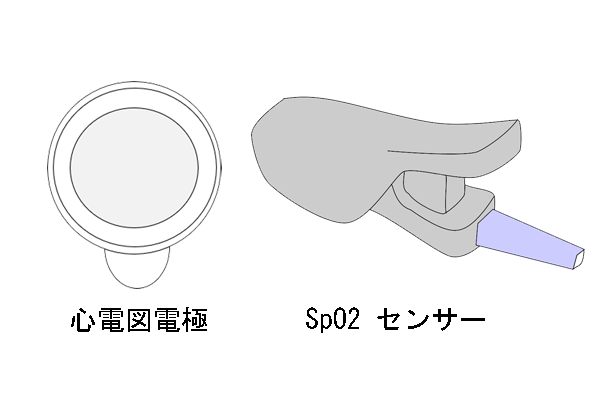
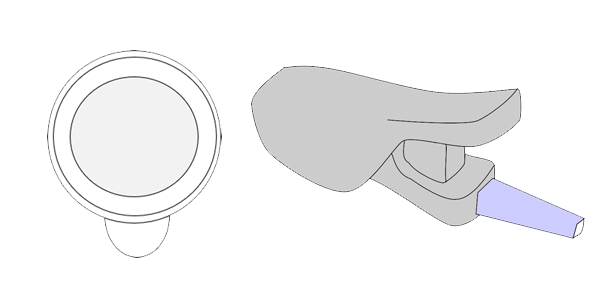
deleted:    content/post/Noiseless/featured.png 	modified:   content/project/sensor/featured.png 	modified:   content/project/sensor/index.md 	modified:   docs/index.html 	modified:   docs/index.json 	modified:   docs/index.xml 	modified:   docs/post/index.html 	modified:   docs/post/noiseless/index

diff --git a/docs/post/noiseless/index.html b/docs/post/noiseless/index.html
@@ -99,13 +99,14 @@
   
   
     
+    
   
-  <meta property="twitter:card" content="summary_large_image">
+  <meta property="twitter:card" content="summary">
   
   <meta property="og:site_name" content="HST">
   <meta property="og:url" content="https://kusa0.github.io/HST1/post/noiseless/">
   <meta property="og:title" content="技術トピック１　ノイズレス電極 | HST">
-  <meta property="og:description" content="ノイズレス電極 汎用電極 ノイズレス電極 汎用電極による歩行時の心電図は、静電気の影響で大きく揺れています。特に乾燥した冬季では顕著に現れ、モニタ"><meta property="og:image" content="https://kusa0.github.io/HST1/post/noiseless/featured.png">
+  <meta property="og:description" content="ノイズレス電極 汎用電極 ノイズレス電極 汎用電極による歩行時の心電図は、静電気の影響で大きく揺れています。特に乾燥した冬季では顕著に現れ、モニタ"><meta property="og:image" content="https://kusa0.github.io/HST1/img/icon-192.png">
   <meta property="og:locale" content="en-us">
   
   <meta property="article:published_time" content="2019-03-06T16:15:53&#43;09:00">
@@ -303,97 +304,18 @@
 
 
 
-
-<div class="article-header d-xl-none">
-  <div class="featured-image" style="background-image: url('/HST1/post/noiseless/featured_hu264da5d4241c59ecc0a46030689103db_290100_800x0_resize_box_2.png');"></div>
-  
-</div>
-
-
-<div class="container-fluid split-header d-none d-xl-block">
-  <div class="row">
-    <div class="col-6">
-      <div class="split-header-content">
-        <h1 itemprop="name">技術トピック１　ノイズレス電極</h1>
-
-        
-
-        
-
-<div class="article-metadata">
-
-  
-  
-  
-  <div>
-    <span itemscope itemprop="author" itemtype="http://schema.org/Person">
-      <span itemprop="name">HST Inc.</span>
-    </span>
-    
-  </div>
-  
-
-  <span class="article-date">
-    
-    <meta content="2019-03-06 16:15:53 &#43;0900 JST" itemprop="datePublished">
-    <time datetime="2019-03-06 16:15:53 &#43;0900 JST" itemprop="dateModified">
-      Mar 6, 2019
-    </time>
-  </span>
-  <span itemscope itemprop="publisher" itemtype="http://schema.org/Person">
-    <meta itemprop="name" content="HST">
-  </span>
-
   
 
   
   
-
   
-
-  
-
-</div>
-
-
-        
-
-
-
-
-
-
-
-  
-
-
-
-
-
-
-
-
-
-
-        
-
-      </div>
-    </div>
-    <div class="col-6">
-      <div class="split-header-image">
-        <img src="/HST1/post/noiseless/featured_hu264da5d4241c59ecc0a46030689103db_290100_680x500_fill_q90_box_smart1_2.png" itemprop="image" alt="">
-        
-      </div>
-    </div>
-  </div>
-</div>
-
-<div class="article-container d-xl-none">
+<div class="article-container pt-3">
   <h1 itemprop="name">技術トピック１　ノイズレス電極</h1>
 
   
 
   
+    
 
 <div class="article-metadata">
 
@@ -433,6 +355,13 @@
 
 </div>
 
+    
+
+
+
+
+
+
 
   
 
@@ -442,16 +371,9 @@
 
 
 
+
+
   
-
-
-
-
-
-
-
-
-
 </div>
 
 

diff --git a/docs/project/sensor/index.html b/docs/project/sensor/index.html
@@ -15,7 +15,7 @@
   
     
   
-  <meta name="description" content="心電図電極 SpO2センサー">
+  <meta name="description" content="HSTは各種センサーの作成も承ります。 - 心電図電極 - リユーザブル - ノイズレス電極 - SpO2センサー - リユーザブル - ディスポーザブル">
 
   
   <link rel="alternate" hreflang="en-us" href="https://kusa0.github.io/HST1/project/sensor/">
@@ -105,7 +105,7 @@
   <meta property="og:site_name" content="HST">
   <meta property="og:url" content="https://kusa0.github.io/HST1/project/sensor/">
   <meta property="og:title" content="各種センサー | HST">
-  <meta property="og:description" content="心電図電極 SpO2センサー"><meta property="og:image" content="https://kusa0.github.io/HST1/project/sensor/featured.png">
+  <meta property="og:description" content="HSTは各種センサーの作成も承ります。 - 心電図電極 - リユーザブル - ノイズレス電極 - SpO2センサー - リユーザブル - ディスポーザブル"><meta property="og:image" content="https://kusa0.github.io/HST1/project/sensor/featured.png">
   <meta property="og:locale" content="en-us">
   
   <meta property="article:published_time" content="2018-03-07T16:24:58&#43;09:00">
@@ -305,7 +305,7 @@
 
 
 <div class="article-header d-xl-none">
-  <div class="featured-image" style="background-image: url('/HST1/project/sensor/featured_hu9ac443945f81928e92f42e9bbe3df4d7_35889_800x0_resize_box_2.png');"></div>
+  <div class="featured-image" style="background-image: url('/HST1/project/sensor/featured_hu48985c463ad2c2b2942d32010d0f6cca_40057_800x0_resize_box_2.png');"></div>
   
 </div>
 
@@ -381,7 +381,7 @@
     </div>
     <div class="col-6">
       <div class="split-header-image">
-        <img src="/HST1/project/sensor/featured_hu9ac443945f81928e92f42e9bbe3df4d7_35889_680x500_fill_q90_box_smart1_2.png" itemprop="image" alt="">
+        <img src="/HST1/project/sensor/featured_hu48985c463ad2c2b2942d32010d0f6cca_40057_680x500_fill_q90_box_smart1_2.png" itemprop="image" alt="">
         
       </div>
     </div>
@@ -459,8 +459,13 @@
   <div class="article-container">
 
     <div class="article-style" itemprop="articleBody">
-      <p>心電図電極<br />
-SpO2センサー</p>
+      <p>HSTは各種センサーの作成も承ります。<br />
+- 心電図電極<br />
+    - リユーザブル<br />
+    - ノイズレス電極<br />
+- SpO2センサー<br />
+    - リユーザブル<br />
+    - ディスポーザブル</p>
 
     </div>
 

diff --git a/docs/index.html b/docs/index.html
@@ -754,11 +754,6 @@ url('/HST1/img/HST_back.png')
   <div class="ml-3">
     
     
-    
-    <a href="/HST1/post/noiseless/">
-      <img src="/HST1/post/noiseless/featured_hu264da5d4241c59ecc0a46030689103db_290100_150x0_resize_box_2.png" itemprop="image">
-    </a>
-    
   </div>
 </div>
 
@@ -1344,7 +1339,7 @@ url('/HST1/img/HST_back.png')
     
     
     <a href="/HST1/project/sensor/"  class="card-image hover-overlay">
-      <img src="/HST1/project/sensor/featured_hu9ac443945f81928e92f42e9bbe3df4d7_35889_550x0_resize_q90_box_2.png" alt="" class="img-responsive">
+      <img src="/HST1/project/sensor/featured_hu48985c463ad2c2b2942d32010d0f6cca_40057_550x0_resize_q90_box_2.png" alt="" class="img-responsive">
     </a>
     
     <div class="card-text">

diff --git a/docs/project/index.html b/docs/project/index.html
@@ -364,7 +364,7 @@
     <h2><a href="/HST1/project/sensor/">各種センサー</a></h2>
     <div class="article-style">
       
-      心電図電極 SpO2センサー
+      HSTは各種センサーの作成も承ります。 - 心電図電極 - リユーザブル - ノイズレス電極 - SpO2センサー - リユーザブル - ディスポーザブル
       
     </div>
   </div>

diff --git a/docs/tags/global/index.html b/docs/tags/global/index.html
@@ -346,7 +346,7 @@
     <h2><a href="/HST1/project/sensor/">各種センサー</a></h2>
     <div class="article-style">
       
-      心電図電極 SpO2センサー
+      HSTは各種センサーの作成も承ります。 - 心電図電極 - リユーザブル - ノイズレス電極 - SpO2センサー - リユーザブル - ディスポーザブル
       
     </div>
   </div>

diff --git a/docs/post/index.html b/docs/post/index.html
@@ -461,11 +461,6 @@
   <div class="ml-3">
     
     
-    
-    <a href="/HST1/post/noiseless/">
-      <img src="/HST1/post/noiseless/featured_hu264da5d4241c59ecc0a46030689103db_290100_150x0_resize_box_2.png" itemprop="image">
-    </a>
-    
   </div>
 </div>
 

diff --git a/content/project/sensor/index.md b/content/project/sensor/index.md
@@ -46,5 +46,11 @@ url_poster = ""
   # Options: Smart, Center, TopLeft, Top, TopRight, Left, Right, BottomLeft, Bottom, BottomRight
   focal_point = "Smart"
 +++
-心電図電極    
-SpO2センサー
+HSTは各種センサーの作成も承ります。    
+- 心電図電極    
+    - リユーザブル    
+    - ノイズレス電極    
+- SpO2センサー    
+    - リユーザブル    
+    - ディスポーザブル    
+
